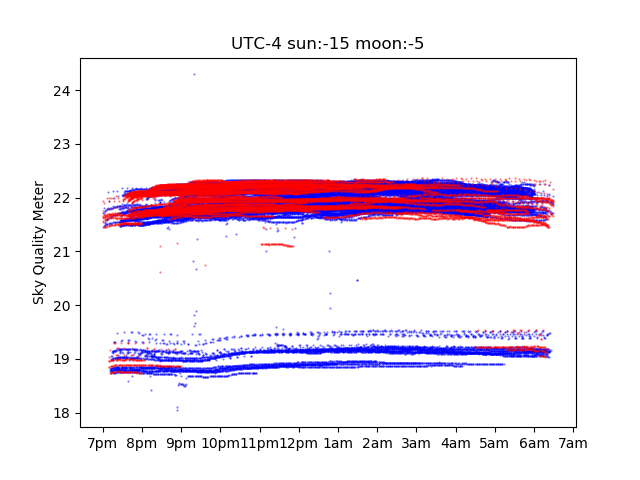
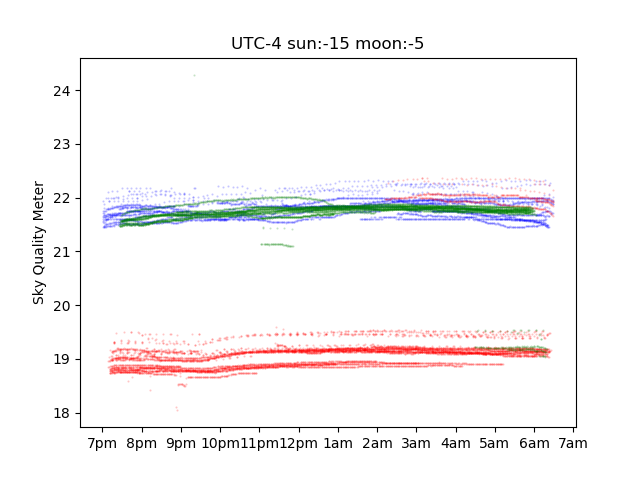
Tres rangos de fechas

Changed region(s): [[0.1562, 0.3438, 0.875, 0.5312], [0.1562, 0.6875, 0.875, 0.8125]]

diff --git a/plot1.py b/plot1.py
@@ -20,7 +20,7 @@ colors = [
 
 [db_cursor, database] = WS.db_connect()
 search = "SELECT `UTC`, `sqm` FROM `weather` WHERE \
- `UTC` >= '2017-04-28 19:00:00' AND `UTC` <= '2018-04-28 07:00:00' AND\
+ `UTC` >= '2017-06-01 23:00:00' AND `UTC` <= '2017-07-01 11:00:00' AND\
 `SunElevation` < -15 AND `MoonElevation` < -5 AND \
 `weatherstatus`= 'Go Science!' ORDER BY `UTC` ASC LIMIT 1000000"
 
@@ -29,6 +29,34 @@ res = db_cursor.fetchall()
 print "From ", res[0], " to ", res[-1]
 y = []
 x = []
+#prevDay = int(res[0][0][8:10])
+counter = 0
+for e in res:
+    counter += 1
+    UTCObstech = -4
+    day = int(e[0][8:10])
+    hour = UTCObstech + int(e[0][11:13]) + 24 # para siempre trabajar solo con positivos incluso sumando UTC-23
+    minute = int(e[0][14:16])
+    second = int(e[0][17:19])
+    t = hour*60*60 + minute*60 + second # seconds from 19*60*60 (7pm) to (24 + 7)*60*60 (7am)
+    if hour >= 19 + 24:
+        x.append(t)
+        y.append(e[1])
+    elif hour <= 7 + 24:
+        x.append(t + 24*60*60)
+        y.append(e[1])
+
+plt.scatter(x, y, 0.3, c='b', alpha=0.2)
+
+[db_cursor, database] = WS.db_connect()
+search = "SELECT `UTC`, `sqm` FROM `weather` WHERE \
+`UTC` >= '2017-07-01 23:00:00' AND `UTC` <= '2017-08-01 11:00:00' AND\
+`SunElevation` < -15 AND `MoonElevation` < -5 AND \
+`weatherstatus`= 'Go Science!' ORDER BY `UTC` ASC LIMIT 1000000"
+
+db_cursor.execute(search)
+res = db_cursor.fetchall()
+print "From ", res[0], " to ", res[-1]
 x2 = []
 y2 = []
 #prevDay = int(res[0][0][8:10])
@@ -47,22 +75,48 @@ for e in res:
         # print minute
         # print second
         # print t
-        if day >= 15:
-            x.append(t)
-            y.append(e[1])
-        else:
-            x2.append(t)
-            y2.append(e[1])
+        x2.append(t)
+        y2.append(e[1])
     elif hour <= 7 + 24:
-        if day >= 15:
-            x.append(t + 24*60*60)
-            y.append(e[1])
-        else:
-            x2.append(t + 24*60*60)
-            y2.append(e[1])
+        x2.append(t + 24*60*60)
+        y2.append(e[1])
 
-plt.scatter(x, y, 0.3, c='b', alpha=0.5)
-plt.scatter(x2, y2, 0.3, c='r', alpha=0.5)
+plt.scatter(x2, y2, 0.3, c='r', alpha=0.2)
+
+[db_cursor, database] = WS.db_connect()
+search = "SELECT `UTC`, `sqm` FROM `weather` WHERE \
+`UTC` >= '2017-08-01 23:00:00' AND `UTC` <= '2017-09-01 11:00:00' AND\
+`SunElevation` < -15 AND `MoonElevation` < -5 AND \
+`weatherstatus`= 'Go Science!' ORDER BY `UTC` ASC LIMIT 1000000"
+
+db_cursor.execute(search)
+res = db_cursor.fetchall()
+print "From ", res[0], " to ", res[-1]
+x3 = []
+y3 = []
+#prevDay = int(res[0][0][8:10])
+counter = 0
+for e in res:
+    counter += 1
+    UTCObstech = -4
+    day = int(e[0][8:10])
+    hour = UTCObstech + int(e[0][11:13]) + 24 # para siempre trabajar solo con positivos incluso sumando UTC-23
+    minute = int(e[0][14:16])
+    second = int(e[0][17:19])
+    t = hour*60*60 + minute*60 + second # seconds from 19*60*60 (7pm) to (24 + 7)*60*60 (7am)
+    if hour >= 19 + 24:
+        # print e[1]
+        # print hour
+        # print minute
+        # print second
+        # print t
+        x3.append(t)
+        y3.append(e[1])
+    elif hour <= 7 + 24:
+        x3.append(t + 24*60*60)
+        y3.append(e[1])
+
+plt.scatter(x3, y3, 0.3, c='g', alpha=0.2)
 
     # day = int(e[0][8:10])
     # if day > prevDay:
